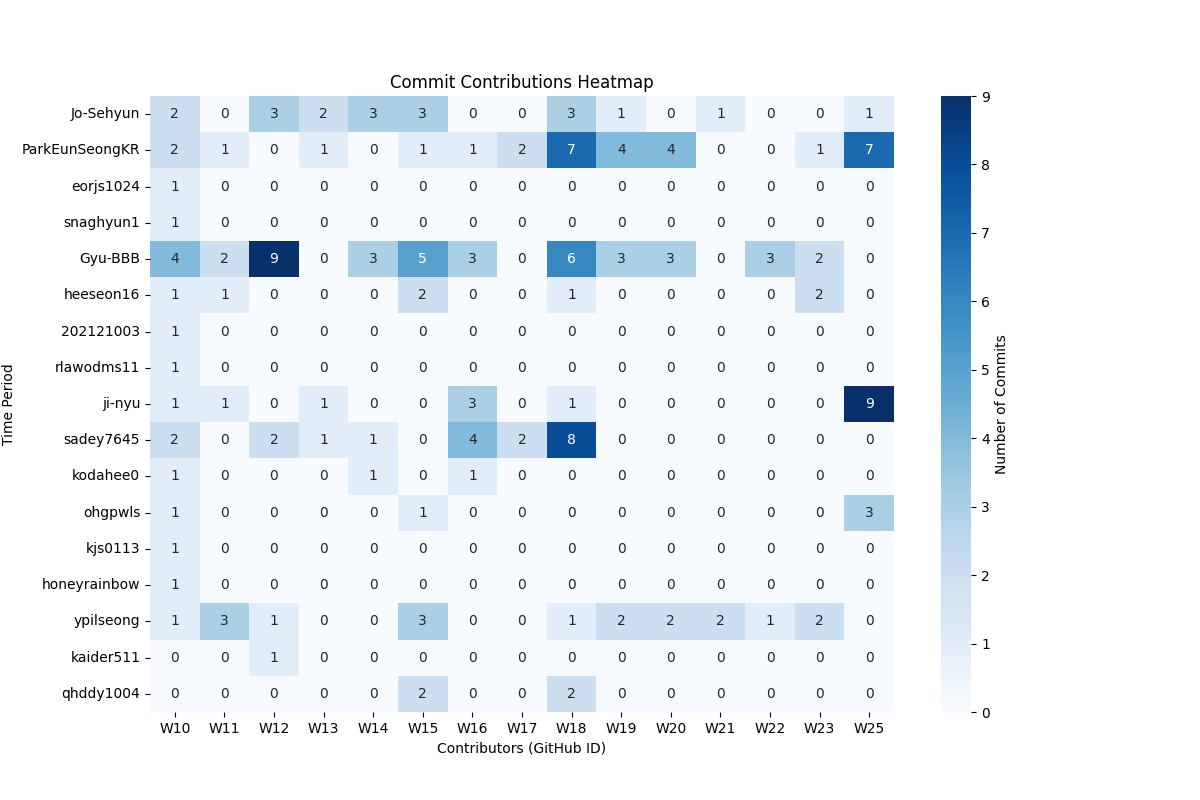
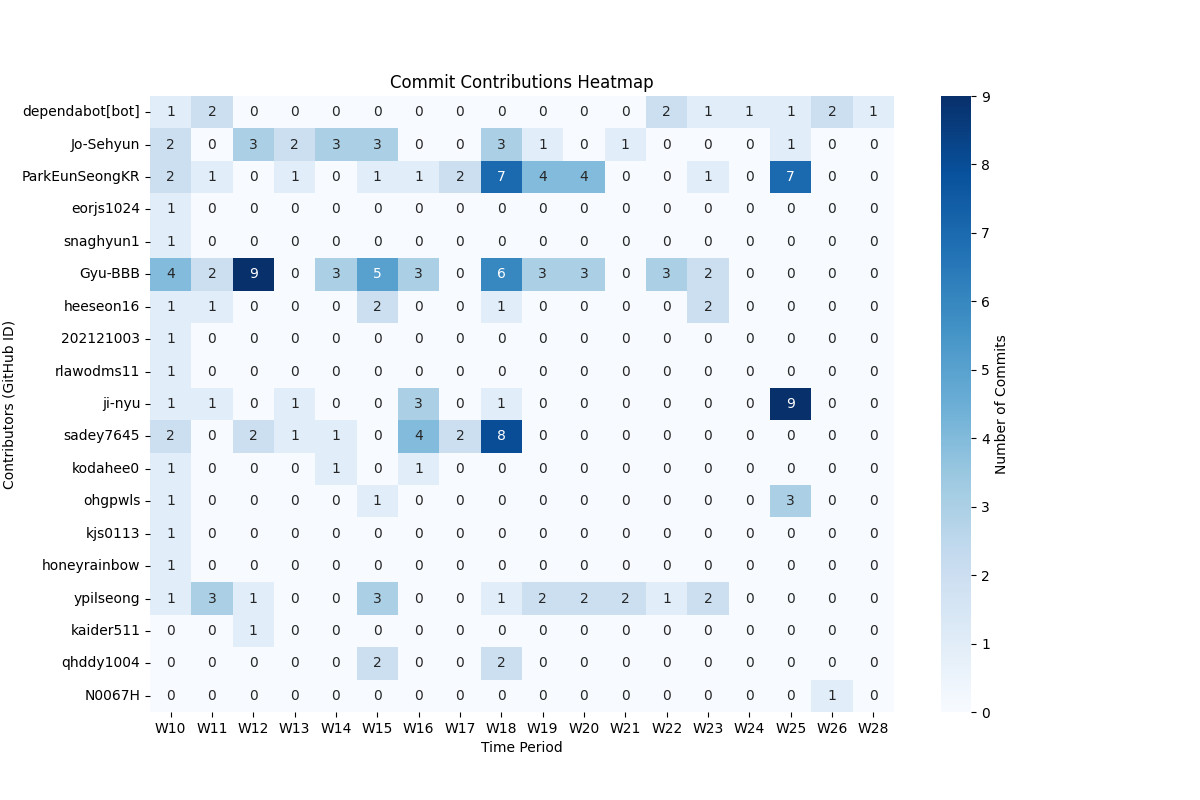
Update contributors report

diff --git a/src/os2024/book/about/contributors.md b/src/os2024/book/about/contributors.md
@@ -4,24 +4,26 @@ We would also like to thank all the students who have provided feedback and sugg
 
 ## Weekly Contributions
 
-|                |   W10 |   W11 |   W12 |   W13 |   W14 |   W15 |   W16 |   W17 |   W18 |   W19 |   W20 |   W21 |   W22 |   W23 |   W25 |
-|:---------------|------:|------:|------:|------:|------:|------:|------:|------:|------:|------:|------:|------:|------:|------:|------:|
-| Jo-Sehyun      |     2 |     0 |     3 |     2 |     3 |     3 |     0 |     0 |     3 |     1 |     0 |     1 |     0 |     0 |     1 |
-| ParkEunSeongKR |     2 |     1 |     0 |     1 |     0 |     1 |     1 |     2 |     7 |     4 |     4 |     0 |     0 |     1 |     7 |
-| eorjs1024      |     1 |     0 |     0 |     0 |     0 |     0 |     0 |     0 |     0 |     0 |     0 |     0 |     0 |     0 |     0 |
-| snaghyun1      |     1 |     0 |     0 |     0 |     0 |     0 |     0 |     0 |     0 |     0 |     0 |     0 |     0 |     0 |     0 |
-| Gyu-BBB        |     4 |     2 |     9 |     0 |     3 |     5 |     3 |     0 |     6 |     3 |     3 |     0 |     3 |     2 |     0 |
-| heeseon16      |     1 |     1 |     0 |     0 |     0 |     2 |     0 |     0 |     1 |     0 |     0 |     0 |     0 |     2 |     0 |
-| 202121003      |     1 |     0 |     0 |     0 |     0 |     0 |     0 |     0 |     0 |     0 |     0 |     0 |     0 |     0 |     0 |
-| rlawodms11     |     1 |     0 |     0 |     0 |     0 |     0 |     0 |     0 |     0 |     0 |     0 |     0 |     0 |     0 |     0 |
-| ji-nyu         |     1 |     1 |     0 |     1 |     0 |     0 |     3 |     0 |     1 |     0 |     0 |     0 |     0 |     0 |     9 |
-| sadey7645      |     2 |     0 |     2 |     1 |     1 |     0 |     4 |     2 |     8 |     0 |     0 |     0 |     0 |     0 |     0 |
-| kodahee0       |     1 |     0 |     0 |     0 |     1 |     0 |     1 |     0 |     0 |     0 |     0 |     0 |     0 |     0 |     0 |
-| ohgpwls        |     1 |     0 |     0 |     0 |     0 |     1 |     0 |     0 |     0 |     0 |     0 |     0 |     0 |     0 |     3 |
-| kjs0113        |     1 |     0 |     0 |     0 |     0 |     0 |     0 |     0 |     0 |     0 |     0 |     0 |     0 |     0 |     0 |
-| honeyrainbow   |     1 |     0 |     0 |     0 |     0 |     0 |     0 |     0 |     0 |     0 |     0 |     0 |     0 |     0 |     0 |
-| ypilseong      |     1 |     3 |     1 |     0 |     0 |     3 |     0 |     0 |     1 |     2 |     2 |     2 |     1 |     2 |     0 |
-| kaider511      |     0 |     0 |     1 |     0 |     0 |     0 |     0 |     0 |     0 |     0 |     0 |     0 |     0 |     0 |     0 |
-| qhddy1004      |     0 |     0 |     0 |     0 |     0 |     2 |     0 |     0 |     2 |     0 |     0 |     0 |     0 |     0 |     0 |
+|                 |   W10 |   W11 |   W12 |   W13 |   W14 |   W15 |   W16 |   W17 |   W18 |   W19 |   W20 |   W21 |   W22 |   W23 |   W24 |   W25 |   W26 |   W28 |
+|:----------------|------:|------:|------:|------:|------:|------:|------:|------:|------:|------:|------:|------:|------:|------:|------:|------:|------:|------:|
+| dependabot[bot] |     1 |     2 |     0 |     0 |     0 |     0 |     0 |     0 |     0 |     0 |     0 |     0 |     2 |     1 |     1 |     1 |     2 |     1 |
+| Jo-Sehyun       |     2 |     0 |     3 |     2 |     3 |     3 |     0 |     0 |     3 |     1 |     0 |     1 |     0 |     0 |     0 |     1 |     0 |     0 |
+| ParkEunSeongKR  |     2 |     1 |     0 |     1 |     0 |     1 |     1 |     2 |     7 |     4 |     4 |     0 |     0 |     1 |     0 |     7 |     0 |     0 |
+| eorjs1024       |     1 |     0 |     0 |     0 |     0 |     0 |     0 |     0 |     0 |     0 |     0 |     0 |     0 |     0 |     0 |     0 |     0 |     0 |
+| snaghyun1       |     1 |     0 |     0 |     0 |     0 |     0 |     0 |     0 |     0 |     0 |     0 |     0 |     0 |     0 |     0 |     0 |     0 |     0 |
+| Gyu-BBB         |     4 |     2 |     9 |     0 |     3 |     5 |     3 |     0 |     6 |     3 |     3 |     0 |     3 |     2 |     0 |     0 |     0 |     0 |
+| heeseon16       |     1 |     1 |     0 |     0 |     0 |     2 |     0 |     0 |     1 |     0 |     0 |     0 |     0 |     2 |     0 |     0 |     0 |     0 |
+| 202121003       |     1 |     0 |     0 |     0 |     0 |     0 |     0 |     0 |     0 |     0 |     0 |     0 |     0 |     0 |     0 |     0 |     0 |     0 |
+| rlawodms11      |     1 |     0 |     0 |     0 |     0 |     0 |     0 |     0 |     0 |     0 |     0 |     0 |     0 |     0 |     0 |     0 |     0 |     0 |
+| ji-nyu          |     1 |     1 |     0 |     1 |     0 |     0 |     3 |     0 |     1 |     0 |     0 |     0 |     0 |     0 |     0 |     9 |     0 |     0 |
+| sadey7645       |     2 |     0 |     2 |     1 |     1 |     0 |     4 |     2 |     8 |     0 |     0 |     0 |     0 |     0 |     0 |     0 |     0 |     0 |
+| kodahee0        |     1 |     0 |     0 |     0 |     1 |     0 |     1 |     0 |     0 |     0 |     0 |     0 |     0 |     0 |     0 |     0 |     0 |     0 |
+| ohgpwls         |     1 |     0 |     0 |     0 |     0 |     1 |     0 |     0 |     0 |     0 |     0 |     0 |     0 |     0 |     0 |     3 |     0 |     0 |
+| kjs0113         |     1 |     0 |     0 |     0 |     0 |     0 |     0 |     0 |     0 |     0 |     0 |     0 |     0 |     0 |     0 |     0 |     0 |     0 |
+| honeyrainbow    |     1 |     0 |     0 |     0 |     0 |     0 |     0 |     0 |     0 |     0 |     0 |     0 |     0 |     0 |     0 |     0 |     0 |     0 |
+| ypilseong       |     1 |     3 |     1 |     0 |     0 |     3 |     0 |     0 |     1 |     2 |     2 |     2 |     1 |     2 |     0 |     0 |     0 |     0 |
+| kaider511       |     0 |     0 |     1 |     0 |     0 |     0 |     0 |     0 |     0 |     0 |     0 |     0 |     0 |     0 |     0 |     0 |     0 |     0 |
+| qhddy1004       |     0 |     0 |     0 |     0 |     0 |     2 |     0 |     0 |     2 |     0 |     0 |     0 |     0 |     0 |     0 |     0 |     0 |     0 |
+| N0067H          |     0 |     0 |     0 |     0 |     0 |     0 |     0 |     0 |     0 |     0 |     0 |     0 |     0 |     0 |     0 |     0 |     1 |     0 |
 
 ![Weekly Contributions Chart](contributors.png)
